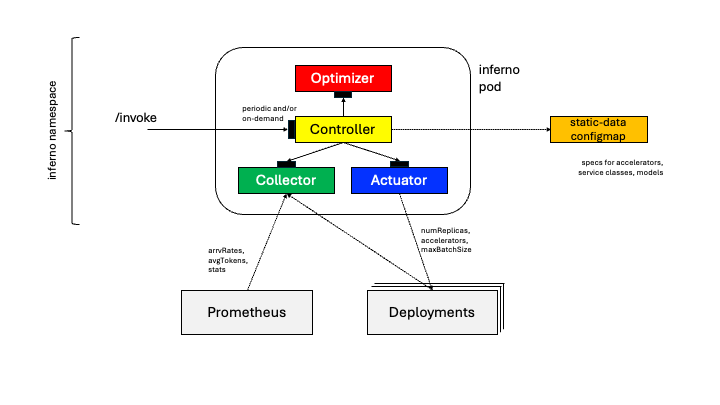
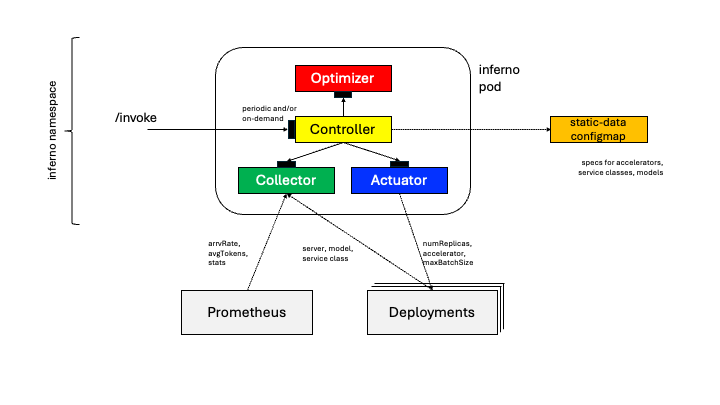
update documentation

Changed region(s): [[0.5806, 0.563, 0.6722, 0.6519], [0.275, 0.5926, 0.3667, 0.6815], [0.4278, 0.5926, 0.4889, 0.6519]]

diff --git a/README.md b/README.md
@@ -24,6 +24,26 @@ docker build -t  inferno . --load
     kubectl apply -f dep1.yaml,dep2.yaml,dep3.yaml
     ```
 
+    Note that the deployment should have the following labels set (a missing service class name defaults to *Free*)
+
+    ```bash
+    labels:
+        inferno.server.managed: "true"
+        inferno.server.name: vllm-001
+        inferno.server.model: llama_13b
+        inferno.server.class: Premium
+        inferno.server.allocation.accelerator: MI250
+    ```
+
+    and some optional labels (if metrics are not available from  Pometheus).
+
+    ```bash
+    labels:
+        inferno.server.allocation.maxbatchsize: "8"
+        inferno.server.load.rpm: "30"
+        inferno.server.load.numtokens: "2048"
+    ```
+
 - Create namespace *inferno*.
 
     ```bash
